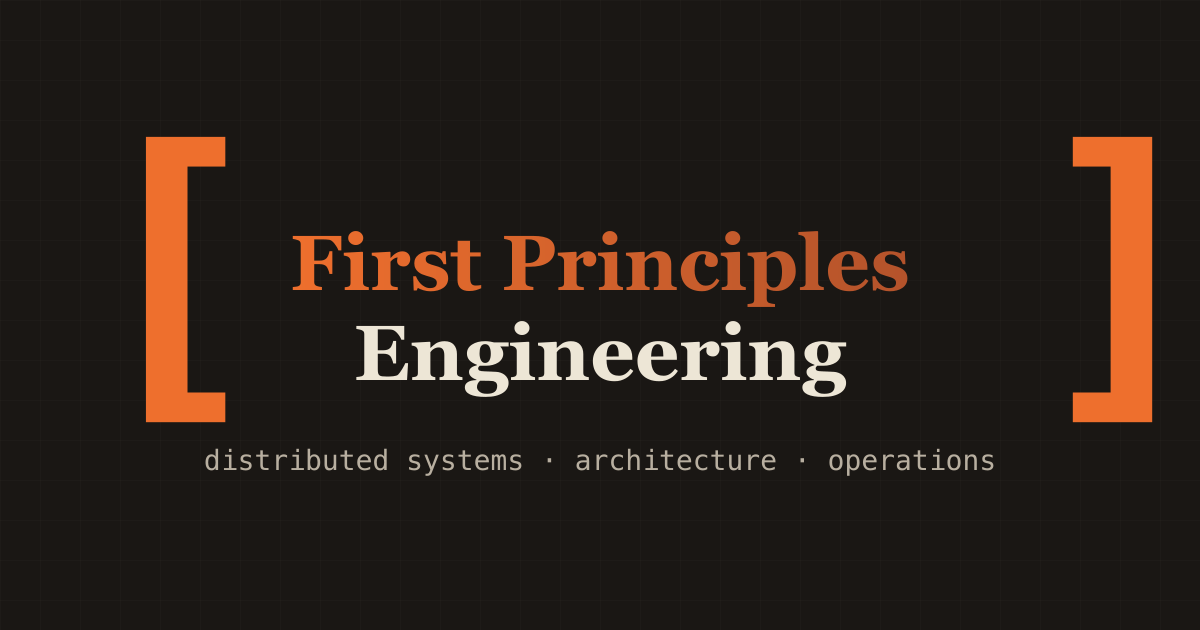
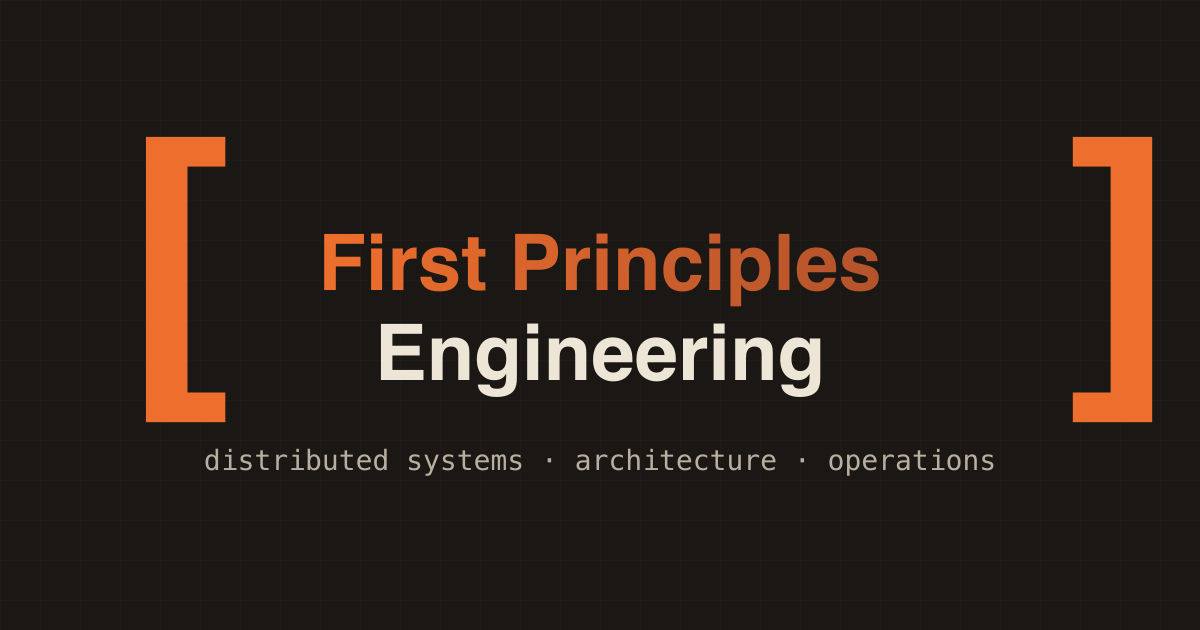
feat(typography): Atkinson Hyperlegible body + Inter headings + JetBrains Mono code
Switch the type stack to a legibility-focused trio (per user spec):

  body  = Atkinson Hyperlegible — designed for maximum character
          distinction on screens; carries paragraphs, lists, table
          cells, and callout body content.
  header = Inter (600–700)     — carries h1–h6, table headers,
          callout titles, and Quartz UI chrome (sidebar / nav /
          search). The header weights already sit in the 600–700
          band thanks to the existing per-heading rules.
  code   = JetBrains Mono       — code blocks and inline code.

Implementation:
- quartz.config.yaml: typography { header: Inter, body: Atkinson
  Hyperlegible, code: JetBrains Mono }. Google Fonts loader picks
  these up automatically (cdnCaching: true).
- quartz/styles/custom.scss:
  - table thead th  → font-family: var(--headerFont)
  - .callout-title  → font-family: var(--headerFont)
  (the rest cascade correctly: h1–h6 already use --headerFont,
   body / tables / lists inherit --bodyFont, code uses --codeFont.)
- content/_static/og-image.svg: brackets now JetBrains Mono, title
  now Inter (was IBM Plex Mono / Fraunces). Re-rasterized into
  quartz/static/og-image.png so the social card matches the site.

Verified on the deployed Database-Concepts page:
  body p  → Atkinson Hyperlegible
  h1, h2  → Inter
  table th → Inter
  table td → Atkinson Hyperlegible
  code    → JetBrains Mono

Changed region(s): [[0.2467, 0.3619, 0.7708, 0.6333]]

diff --git a/quartz/styles/custom.scss b/quartz/styles/custom.scss
@@ -199,6 +199,10 @@ article {
       background: color-mix(in srgb, var(--lightgray) 60%, transparent);
 
       th {
+        // Table headers use the header font (Inter) per the typography
+        // spec — distinct from the Atkinson Hyperlegible body cells so
+        // the header row reads as UI/label, not content.
+        font-family: var(--headerFont);
         font-weight: 600;
         text-align: left;
         padding: 0.85rem 1rem;
@@ -525,6 +529,9 @@ article a[href^="https://"]:not([href*="firstprinciplesengineering"]) {
   transition: border-left-width 150ms ease, transform 150ms ease;
 
   .callout-title {
+    // Callout titles use the header font (Inter) per the typography
+    // spec — distinct from the Atkinson Hyperlegible callout body.
+    font-family: var(--headerFont);
     color: var(--callout-color, var(--secondary));
     font-weight: 600;
     margin-bottom: 0.5rem;